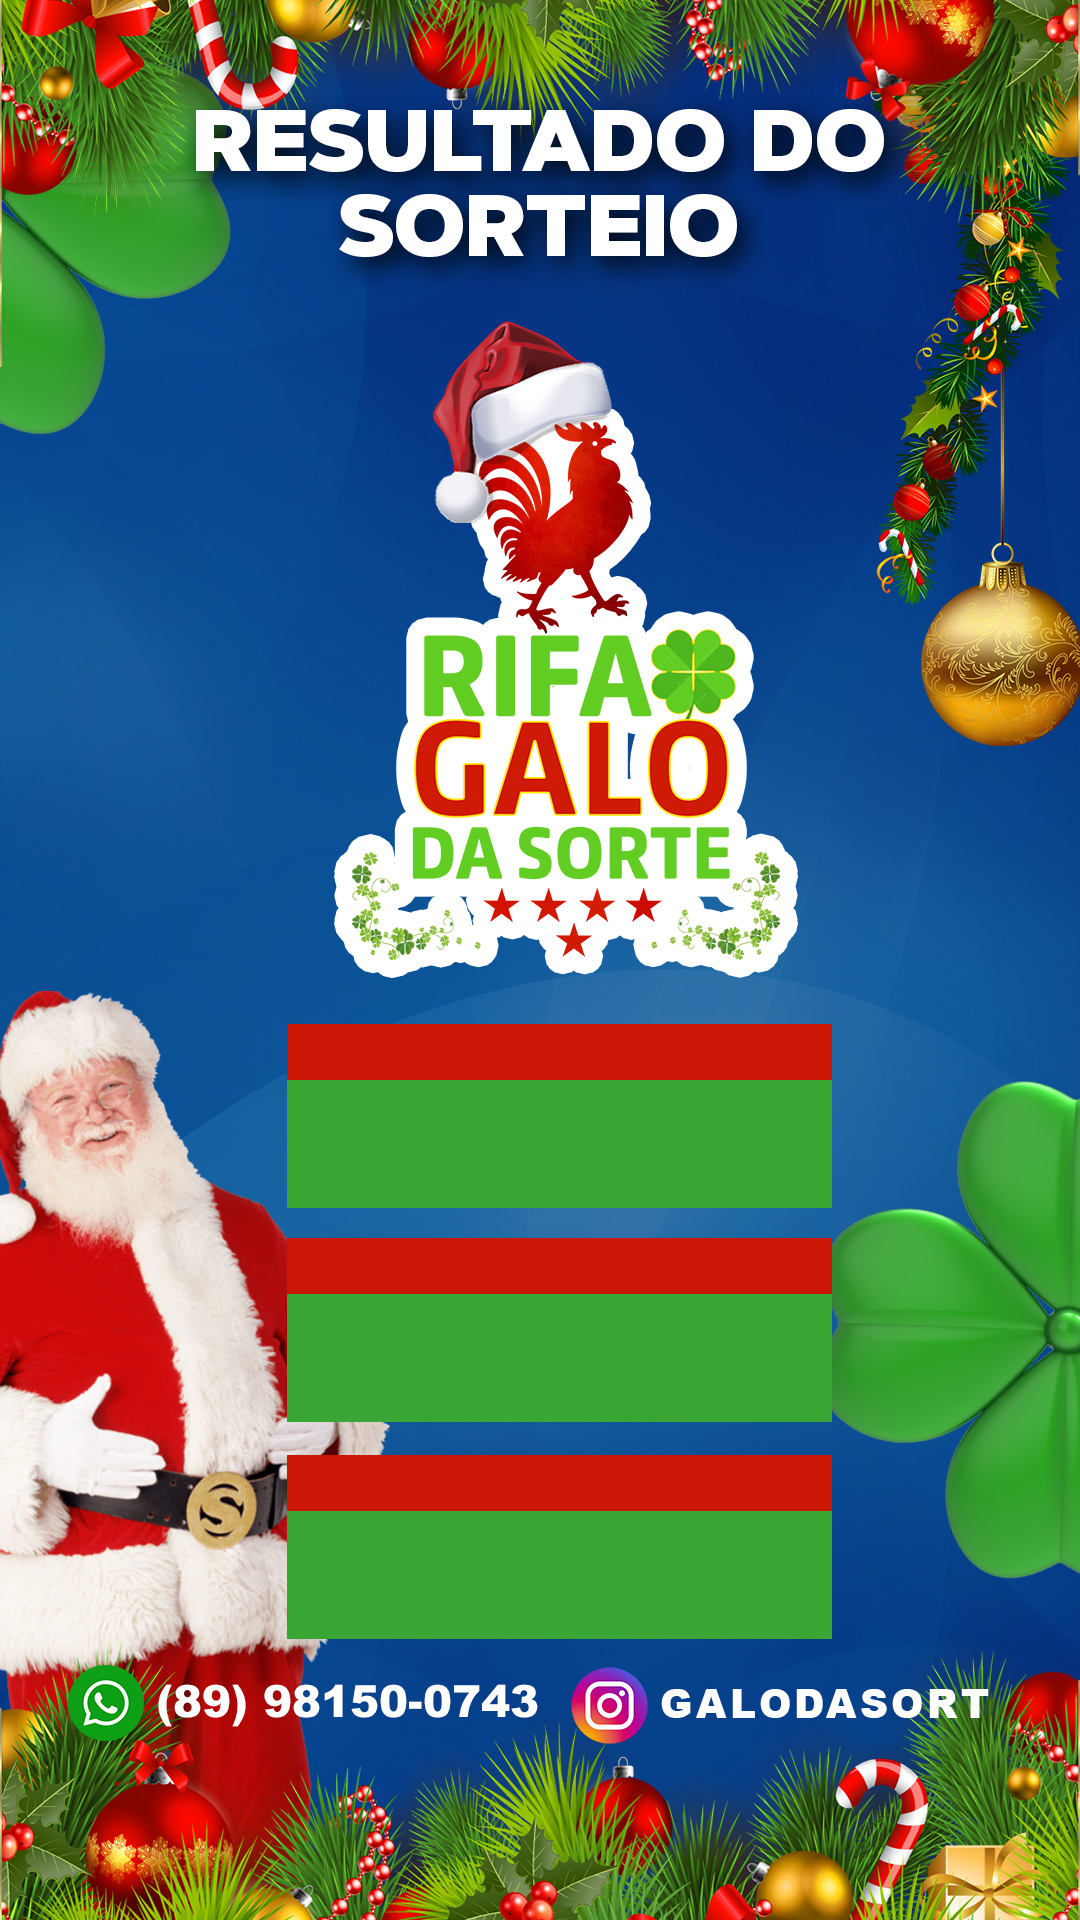
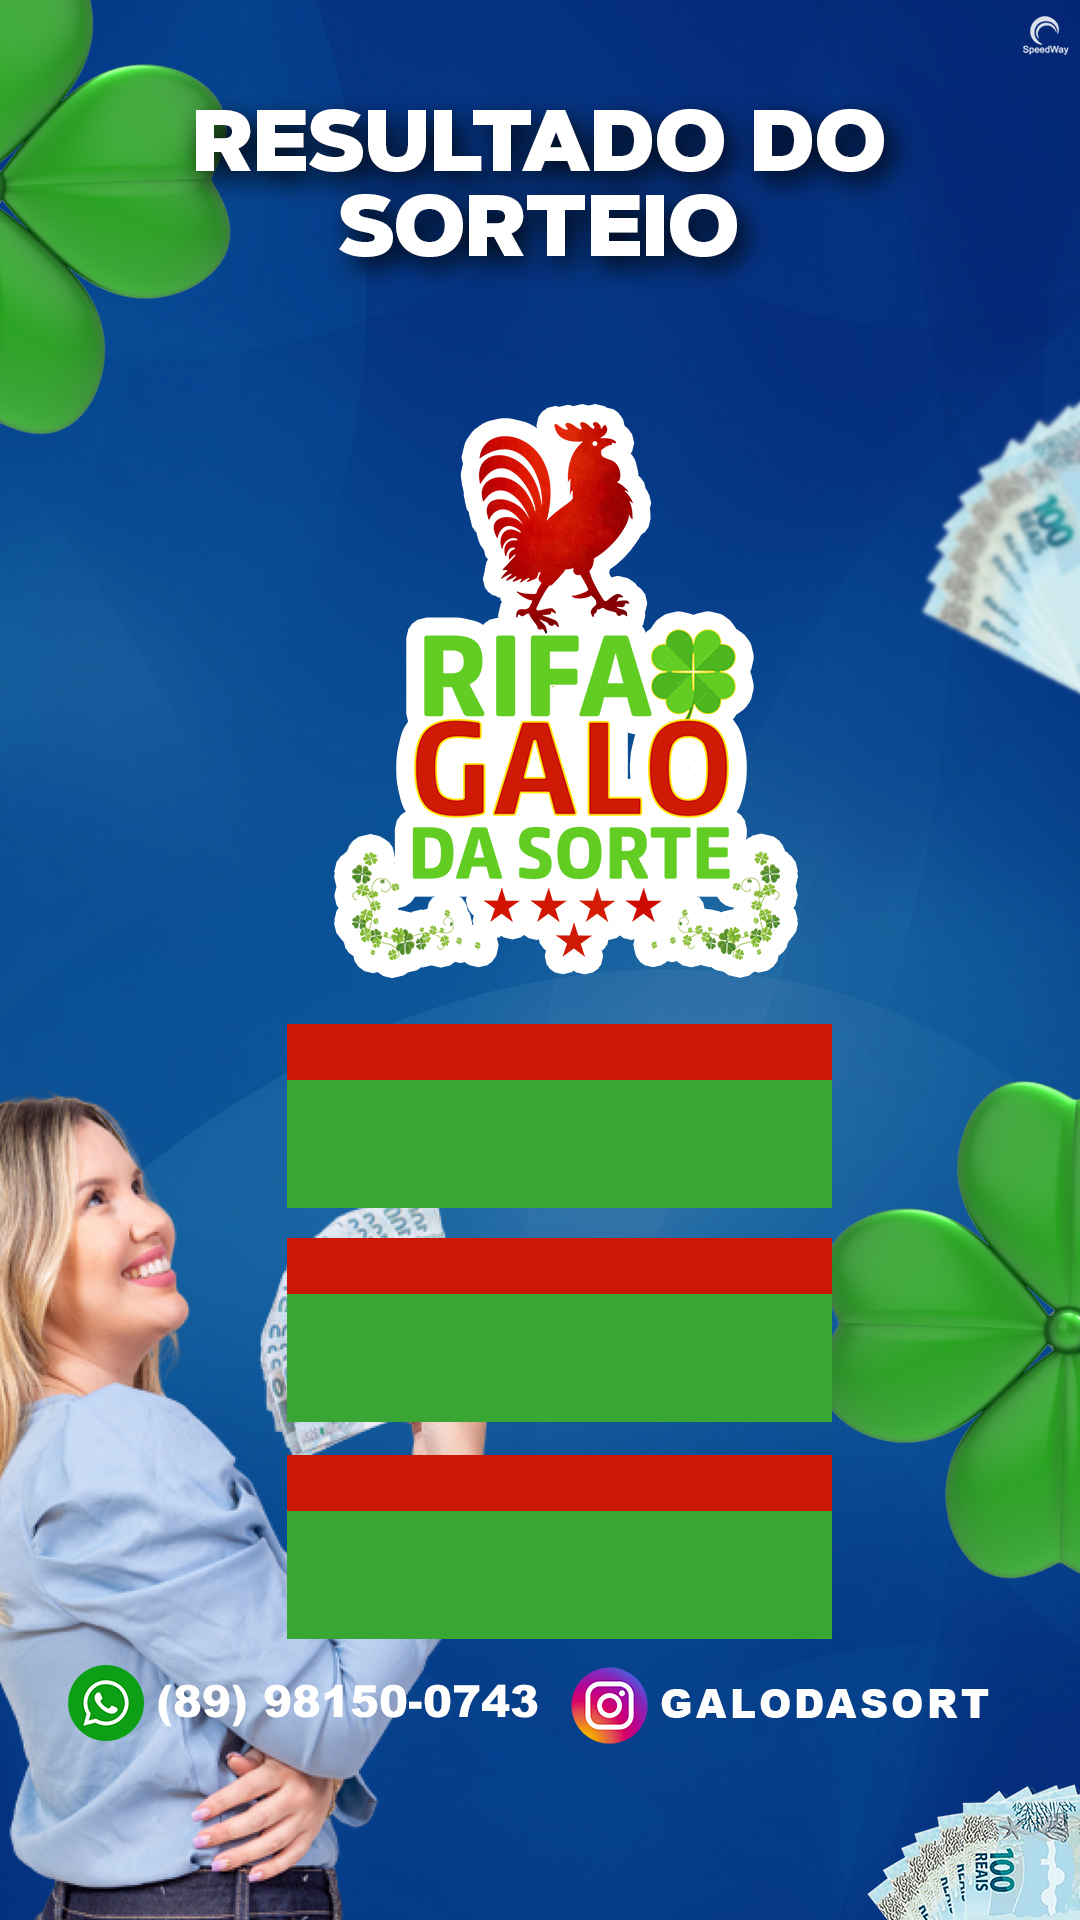
remocao artes de natal

diff --git a/scripts/jaicos/resultadounicosimples.js b/scripts/jaicos/resultadounicosimples.js
@@ -13,7 +13,7 @@ arialFont.load().then(function (font) {
 });
 
 const baseImage = new Image();
-baseImage.src = city+"/resultadouniconatal.jpg";
+baseImage.src = city+"/resultadounico.jpg";
 
 
 document.getElementById("btnShare").addEventListener("click", shareImage);
